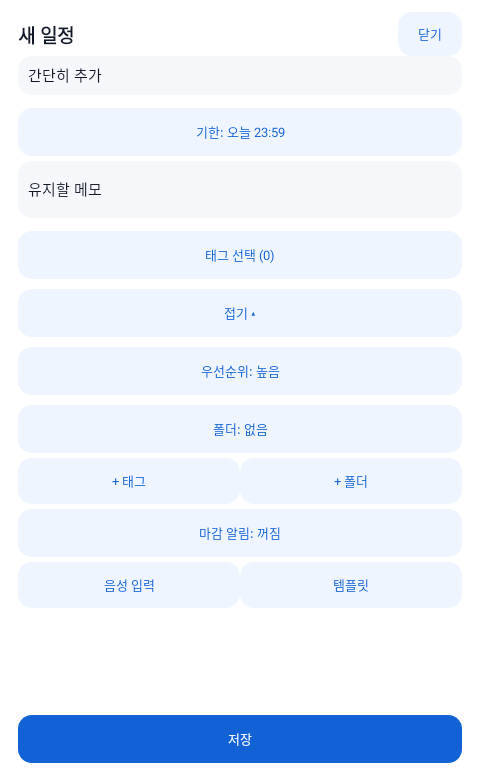
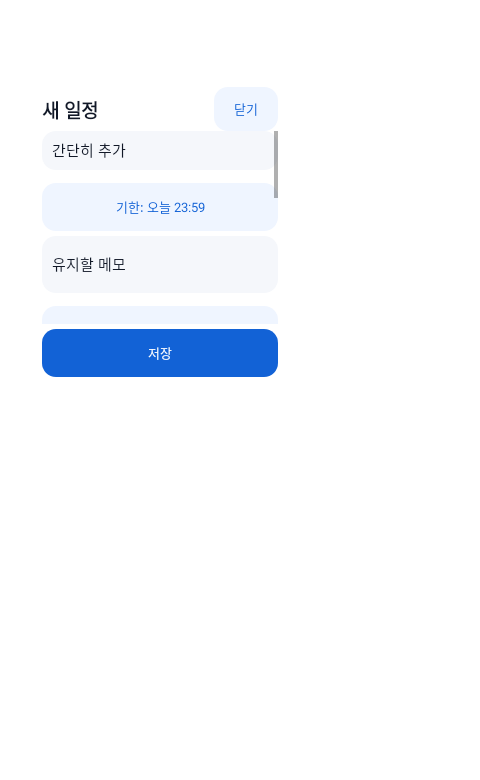
fix: keep widget popups dismissible from the home screen

diff --git a/android/app/src/main/kotlin/com/example/ku_task_management/WidgetWorkspaceActivity.kt b/android/app/src/main/kotlin/com/example/ku_task_management/WidgetWorkspaceActivity.kt
@@ -13,6 +13,7 @@ import android.content.Intent
 import android.content.pm.PackageManager
 import android.graphics.Color
 import android.graphics.Typeface
+import android.graphics.Rect
 import android.graphics.drawable.GradientDrawable
 import android.net.Uri
 import android.os.Build
@@ -27,6 +28,7 @@ import android.view.MotionEvent
 import android.view.View
 import android.view.ViewConfiguration
 import android.view.WindowManager
+import android.view.inputmethod.EditorInfo
 import android.widget.*
 import es.antonborri.home_widget.HomeWidgetPlugin
 import java.time.Instant
@@ -41,6 +43,7 @@ class WidgetWorkspaceActivity : Activity() {
     private lateinit var store: WidgetTaskStore
     private lateinit var body: LinearLayout
     private lateinit var rootPanel: LinearLayout
+    private var backdrop: FrameLayout? = null
     private var widgetId = 0
     private var kind = "today"
     private var screen = "list"
@@ -69,6 +72,7 @@ class WidgetWorkspaceActivity : Activity() {
         selectedDate = runCatching { LocalDate.parse(savedInstanceState?.getString("selected_date")
             ?: intent.getStringExtra("selected_date")) }.getOrDefault(LocalDate.now())
         window.addFlags(WindowManager.LayoutParams.FLAG_WATCH_OUTSIDE_TOUCH)
+        window.setSoftInputMode(WindowManager.LayoutParams.SOFT_INPUT_ADJUST_RESIZE or WindowManager.LayoutParams.SOFT_INPUT_STATE_ALWAYS_HIDDEN)
         if (Build.VERSION.SDK_INT >= 33) onBackInvokedDispatcher.registerOnBackInvokedCallback(
             android.window.OnBackInvokedDispatcher.PRIORITY_DEFAULT) { closeWorkspace() }
         sizeWindow()
@@ -87,7 +91,7 @@ class WidgetWorkspaceActivity : Activity() {
                 store.saveOptions(widgetId, options.copy(page = (options.page + if (action == "next") 1 else -1).coerceAtLeast(0)))
             }
             "settings" -> safely { settings() }
-            "calendar" -> safely { calendar() }
+            "calendar" -> safely { if (kind == "calendar") calendar() else list() }
             "add", "edit" -> safely {
                 editor(id, savedInstanceState?.getBundle("draft"))
                 initialDraft = savedInstanceState?.getBundle("initial_draft") ?: initialDraft
@@ -119,6 +123,7 @@ class WidgetWorkspaceActivity : Activity() {
 
     override fun onResume() {
         super.onResume()
+        sizeWindow()
         focusTick?.let { handler.removeCallbacks(it); handler.post(it) }
     }
 
@@ -126,16 +131,36 @@ class WidgetWorkspaceActivity : Activity() {
         super.onConfigurationChanged(config); sizeWindow()
     }
 
-    private fun sizeWindow() {
-        val expandedEditor = screen == "edit" && editorAdvanced?.visibility == View.VISIBLE
-        val fraction = if (expandedEditor) .88 else if (screen == "calendar") .84 else .76
-        val maximum = (resources.displayMetrics.heightPixels * fraction).toInt()
-            .coerceAtMost(dp(if (expandedEditor) 780 else if (screen == "edit") 560 else 720))
-        val height = if (screen == "list") dp(280 + listCount.coerceAtMost(8) * 60).coerceAtMost(maximum) else maximum
-        window.setLayout((resources.displayMetrics.widthPixels * .94).toInt().coerceAtMost(dp(580)),
-            height)
-        window.setGravity(Gravity.CENTER)
-        window.setSoftInputMode(WindowManager.LayoutParams.SOFT_INPUT_ADJUST_RESIZE)
+    private fun sizeWindow(viewportWidth: Int = 0, viewportHeight: Int = 0) {
+        // The transparent host catches real backdrop taps; only the inner card is opaque.
+        if (window.attributes.width != WindowManager.LayoutParams.MATCH_PARENT ||
+                window.attributes.height != WindowManager.LayoutParams.MATCH_PARENT)
+            window.setLayout(WindowManager.LayoutParams.MATCH_PARENT, WindowManager.LayoutParams.MATCH_PARENT)
+        if (window.attributes.gravity != Gravity.CENTER) window.setGravity(Gravity.CENTER)
+        val host = backdrop ?: return
+        val hostWidth = viewportWidth.takeIf { it > 0 } ?: host.width.takeIf { it > 0 } ?: resources.displayMetrics.widthPixels
+        val hostHeight = viewportHeight.takeIf { it > 0 } ?: host.height.takeIf { it > 0 } ?: resources.displayMetrics.heightPixels
+        val origin = IntArray(2)
+        val visible = Rect()
+        host.getLocationOnScreen(origin)
+        host.getWindowVisibleDisplayFrame(visible)
+        visible.offset(-origin[0], -origin[1])
+        if (!visible.intersect(0, 0, hostWidth, hostHeight)) visible.set(0, 0, hostWidth, hostHeight)
+        val availableWidth = visible.width()
+        val availableHeight = visible.height()
+        val width = (availableWidth - dp(48)).coerceAtLeast(1).coerceAtMost(dp(540))
+        val preferred = if (screen == "list") dp(260 + listCount.coerceAtMost(6) * 56)
+            else if (screen == "edit" && editorAdvanced?.visibility != View.VISIBLE) dp(440) else dp(560)
+        // Reserve usable space on every side, including when the IME or landscape reduces the viewport.
+        val height = preferred.coerceAtMost((availableHeight * .68f).toInt().coerceAtLeast(1))
+        val x = visible.left + (availableWidth - width) / 2
+        val y = visible.top + (availableHeight - height) / 2
+        val previous = rootPanel.layoutParams as? FrameLayout.LayoutParams
+        if (previous == null || previous.width != width || previous.height != height || previous.leftMargin != x || previous.topMargin != y) {
+            rootPanel.layoutParams = FrameLayout.LayoutParams(width, height, Gravity.TOP or Gravity.LEFT).apply {
+                leftMargin = x; topMargin = y
+            }
+        }
     }
 
     private fun panel(title: String): LinearLayout {
@@ -147,6 +172,9 @@ class WidgetWorkspaceActivity : Activity() {
         val root = LinearLayout(this).apply {
             orientation = LinearLayout.VERTICAL; setPadding(dp(18), dp(12), dp(18), dp(12))
             background = shape(Color.WHITE)
+            tag = "widget_popup_card"; isClickable = true
+            isFocusableInTouchMode = true
+            descendantFocusability = android.view.ViewGroup.FOCUS_BEFORE_DESCENDANTS
         }
         rootPanel = root
         val header = row()
@@ -157,7 +185,25 @@ class WidgetWorkspaceActivity : Activity() {
         body = LinearLayout(this).apply { orientation = LinearLayout.VERTICAL }
         scroll.addView(body)
         root.addView(scroll, LinearLayout.LayoutParams(-1, 0, 1f))
-        setContentView(root); sizeWindow()
+        val host = object : FrameLayout(this) {
+            override fun onMeasure(widthMeasureSpec: Int, heightMeasureSpec: Int) {
+                sizeWindow(View.MeasureSpec.getSize(widthMeasureSpec), View.MeasureSpec.getSize(heightMeasureSpec))
+                super.onMeasure(widthMeasureSpec, heightMeasureSpec)
+            }
+        }.apply {
+            tag = "widget_popup_backdrop"
+            setOnClickListener { closeWorkspace() }
+            // A backdrop tap must dismiss immediately, rather than first taking focus from an EditText.
+            setOnTouchListener { view, event ->
+                if (event.actionMasked == MotionEvent.ACTION_UP) view.performClick()
+                true
+            }
+            isFocusable = false
+            addView(root, FrameLayout.LayoutParams(1, 1))
+            viewTreeObserver.addOnGlobalLayoutListener { sizeWindow() }
+        }
+        backdrop = host
+        setContentView(host); root.requestFocus(); sizeWindow()
         return body
     }
 
@@ -192,7 +238,7 @@ class WidgetWorkspaceActivity : Activity() {
         panel(WidgetWorkspaceRenderer.periodLabel(options.period))
         val toolbar = row()
         toolbar.addView(button("+ 추가", primary = true) { safely { editor(null) } }, weight())
-        toolbar.addView(button("캘린더") { safely { calendar() } }, weight())
+        if (kind == "calendar") toolbar.addView(button("캘린더") { safely { calendar() } }, weight())
         toolbar.addView(button("더 보기") { moreMenu() }, weight())
         body.addView(toolbar)
         val search = input("일정 검색")
@@ -301,7 +347,6 @@ class WidgetWorkspaceActivity : Activity() {
         }
         calendar.setOnDateChangeListener { _, year, month, day -> selectedDate = LocalDate.of(year, month + 1, day); update() }
         update()
-        body.addView(button("목록으로") { list() })
     }
 
     private fun matrix() {
@@ -628,8 +673,8 @@ class WidgetWorkspaceActivity : Activity() {
 
     private fun pickDate(initial: Long?, selected: (Long?) -> Unit) {
         val date = initial?.let { Instant.ofEpochSecond(it).atZone(ZoneId.systemDefault()) } ?: java.time.ZonedDateTime.now()
-        DatePickerDialog(this, { _, year, month, day ->
-            TimePickerDialog(this, { _, hour, minute -> selected(LocalDate.of(year, month + 1, day)
+        DatePickerDialog(this, R.style.WidgetPickerDialog, { _, year, month, day ->
+            TimePickerDialog(this, R.style.WidgetPickerDialog, { _, hour, minute -> selected(LocalDate.of(year, month + 1, day)
                 .atTime(hour, minute).atZone(ZoneId.systemDefault()).toEpochSecond()) }, date.hour, date.minute, true).show()
         }, date.year, date.monthValue - 1, date.dayOfMonth).apply {
             setButton(AlertDialog.BUTTON_NEUTRAL, "기한 없음") { _, _ -> selected(null) }
@@ -707,6 +752,7 @@ class WidgetWorkspaceActivity : Activity() {
     }
     private fun input(hint: String, value: String = "") = EditText(this).apply {
         this.hint = hint; setText(value); textSize = 15f; setTextColor(ink); setHintTextColor(Color.GRAY)
+        imeOptions = imeOptions or EditorInfo.IME_FLAG_NO_FULLSCREEN
         setPadding(dp(10), dp(8), dp(10), dp(8)); background = shape(Color.rgb(245, 247, 251))
         layoutParams = LinearLayout.LayoutParams(-1, -2).apply { bottomMargin = dp(8) }
     }

diff --git a/android/app/src/test/kotlin/com/example/ku_task_management/WidgetTaskStoreTest.kt b/android/app/src/test/kotlin/com/example/ku_task_management/WidgetTaskStoreTest.kt
@@ -455,15 +455,95 @@ class WidgetTaskStoreTest {
     }
 
     private fun preview(view: View, name: String, width: Int, height: Int) {
-        view.measure(View.MeasureSpec.makeMeasureSpec(width, View.MeasureSpec.EXACTLY),
-            View.MeasureSpec.makeMeasureSpec(height, View.MeasureSpec.EXACTLY))
-        view.layout(0, 0, width, height)
+        // Settle card bounds after the host's size/visible-area listener requests its next layout pass.
+        repeat(3) {
+            view.measure(View.MeasureSpec.makeMeasureSpec(width, View.MeasureSpec.EXACTLY),
+                View.MeasureSpec.makeMeasureSpec(height, View.MeasureSpec.EXACTLY))
+            view.layout(0, 0, width, height)
+        }
         val bitmap = android.graphics.Bitmap.createBitmap(width, height, android.graphics.Bitmap.Config.ARGB_8888)
         view.draw(android.graphics.Canvas(bitmap))
         val directory = File(System.getProperty("widget.preview.dir") ?: "../../build/widget-previews")
         directory.mkdirs()
         File(directory, "$name.png").outputStream().use { bitmap.compress(android.graphics.Bitmap.CompressFormat.PNG, 100, it) }
         bitmap.recycle()
+    }
+
+    @Test @GraphicsMode(GraphicsMode.Mode.NATIVE)
+    @Config(qualifiers = "w360dp-h800dp-mdpi")
+    fun popupCardsLeaveClickableBackdropForCalendarAndEveryAddEntry() {
+        create("위젯에서 확인할 일정", java.time.LocalDate.now().atTime(23, 59).atZone(java.time.ZoneId.systemDefault()).toEpochSecond())
+        for ((kind, action) in listOf("today" to "list", "weekly" to "list", "calendar" to "calendar",
+                "today" to "add", "weekly" to "add")) {
+            val controller = Robolectric.buildActivity(WidgetWorkspaceActivity::class.java,
+                Intent(context, WidgetWorkspaceActivity::class.java).putExtra("kind", kind).putExtra("action", action)).setup()
+            val activity = controller.get()
+            val content = activity.findViewById<ViewGroup>(android.R.id.content)
+            val host = content.findViewWithTag<android.widget.FrameLayout>("widget_popup_backdrop")
+            preview(host, "popup-$kind-$action", 360, 800)
+            val card = content.findViewWithTag<View>("widget_popup_card")
+            // Insets or decor must never consume the space reserved for dismissal.
+            assertTrue(card.left >= 24)
+            assertTrue(360 - card.right >= 24)
+            assertTrue(card.top > 0)
+            assertTrue(card.bottom < 800)
+            assertTrue(card.height <= 800 * .68f)
+            tap(host, card.left + 2f, card.top + 2f)
+            assertFalse("Card padding should consume the tap", activity.isFinishing)
+            tap(host, 4f, 400f)
+            assertTrue("Backdrop must close $kind/$action", activity.isFinishing)
+            assertNull(shadowOf(activity).nextStartedActivity)
+            controller.pause().stop().destroy()
+        }
+    }
+
+    @Test @GraphicsMode(GraphicsMode.Mode.NATIVE)
+    @Config(qualifiers = "w360dp-h800dp-mdpi")
+    fun expandedEditorKeepsBackdropAndSaveButtonWhenVisibleAreaShrinks() {
+        val controller = Robolectric.buildActivity(WidgetWorkspaceActivity::class.java,
+            Intent(context, WidgetWorkspaceActivity::class.java).putExtra("action", "add")).setup()
+        val activity = controller.get()
+        val content = activity.findViewById<ViewGroup>(android.R.id.content)
+        val host = content.findViewWithTag<android.widget.FrameLayout>("widget_popup_backdrop")
+        descendants(content).filterIsInstance<Button>().single { it.text == "더 보기 ▾" }.performClick()
+        descendants(content).filterIsInstance<EditText>().single { it.hint == "제목" }.requestFocus()
+        preview(host, "popup-add-reduced-viewport", 360, 350)
+        val card = content.findViewWithTag<View>("widget_popup_card")
+        assertTrue(card.top > 0)
+        assertTrue("Card bounds ${card.left},${card.top},${card.right},${card.bottom} exceed reduced viewport", card.bottom < 350)
+        assertTrue(card.height <= 350 * .68f)
+        val save = descendants(card).filterIsInstance<Button>().single { it.text == "저장" }
+        assertTrue(save.isShown)
+        assertTrue(save.bottom <= card.height - card.paddingBottom)
+        for (input in descendants(card).filterIsInstance<EditText>()) {
+            assertTrue(input.imeOptions and android.view.inputmethod.EditorInfo.IME_FLAG_NO_FULLSCREEN != 0)
+        }
+        tap(host, 4f, 170f)
+        assertTrue(activity.isFinishing)
+        controller.pause().stop().destroy()
+    }
+
+    @Test @GraphicsMode(GraphicsMode.Mode.NATIVE)
+    fun todayAndWeeklyHaveNoCalendarEntryIncludingOlderIntents() {
+        for (kind in listOf("today", "weekly")) for (action in listOf("list", "calendar")) {
+            val controller = Robolectric.buildActivity(WidgetWorkspaceActivity::class.java,
+                Intent(context, WidgetWorkspaceActivity::class.java).putExtra("kind", kind).putExtra("action", action)).setup()
+            val activity = controller.get()
+            val views = descendants(activity.findViewById(android.R.id.content))
+            assertFalse(views.filterIsInstance<Button>().any { it.text == "캘린더" })
+            assertTrue(views.none { it is android.widget.CalendarView })
+            assertTrue(views.filterIsInstance<Button>().any { it.text == "+ 추가" })
+            controller.pause().stop().destroy()
+        }
+    }
+
+    private fun tap(view: View, x: Float, y: Float) {
+        val time = android.os.SystemClock.uptimeMillis()
+        val down = android.view.MotionEvent.obtain(time, time, android.view.MotionEvent.ACTION_DOWN, x, y, 0)
+        val up = android.view.MotionEvent.obtain(time, time + 30, android.view.MotionEvent.ACTION_UP, x, y, 0)
+        view.dispatchTouchEvent(down); view.dispatchTouchEvent(up)
+        shadowOf(Looper.getMainLooper()).idle()
+        down.recycle(); up.recycle()
     }
 
     private fun descendants(root: View): List<View> = listOf(root) + if (root is ViewGroup)
